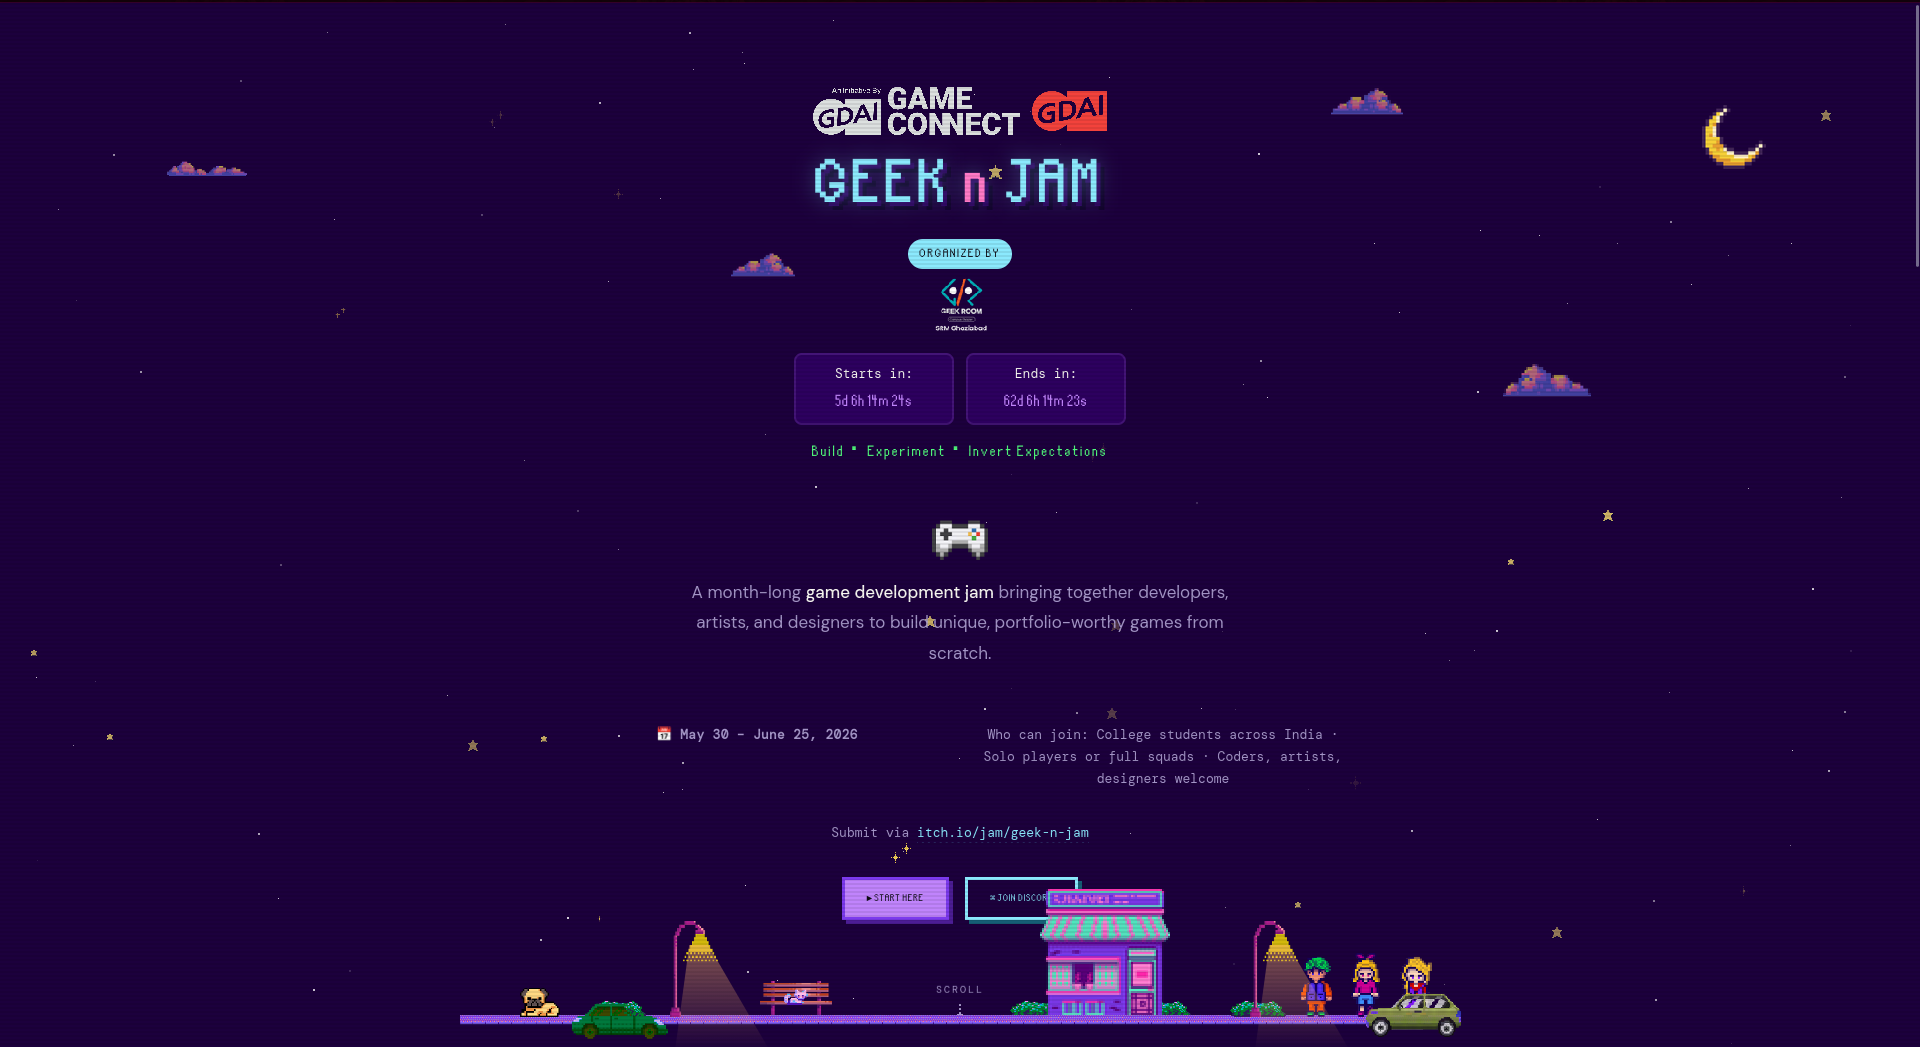
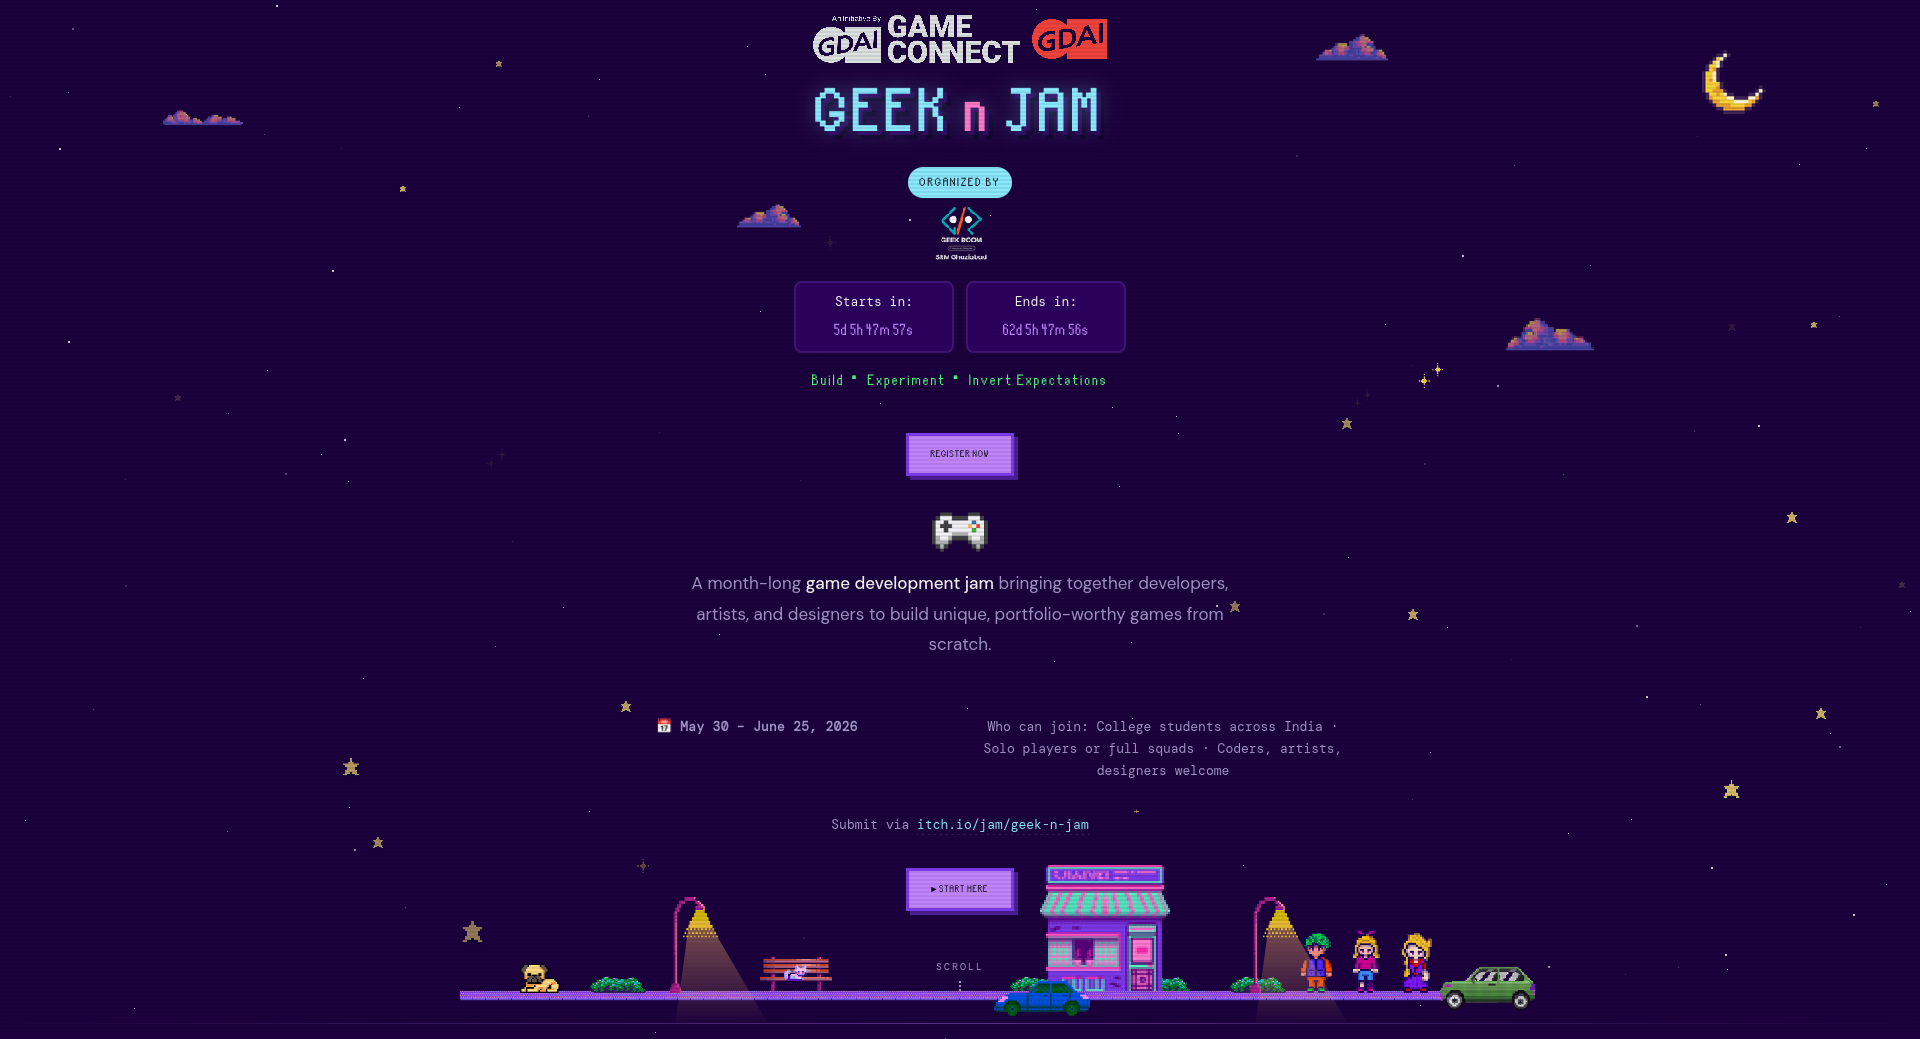
final touchup

diff --git a/style.css b/style.css
@@ -858,7 +858,8 @@ footer a:hover { text-decoration: underline; }
   border: none;
   box-shadow: none;
   image-rendering: pixelated;
-  z-index: 5;
+  z-index: 1;
+  pointer-events: none;
 }
 
 .scene-viewport {

diff --git a/index.html b/index.html
@@ -94,7 +94,6 @@
 
       <div class="hero-cta">
         <a href="#details" class="btn btn-primary">► START HERE</a>
-        <a href="https://discord.gg/c8ZzEN5f9u" target="_blank" class="btn btn-outline">⌘ JOIN DISCORD</a>
       </div>
     </div>
 